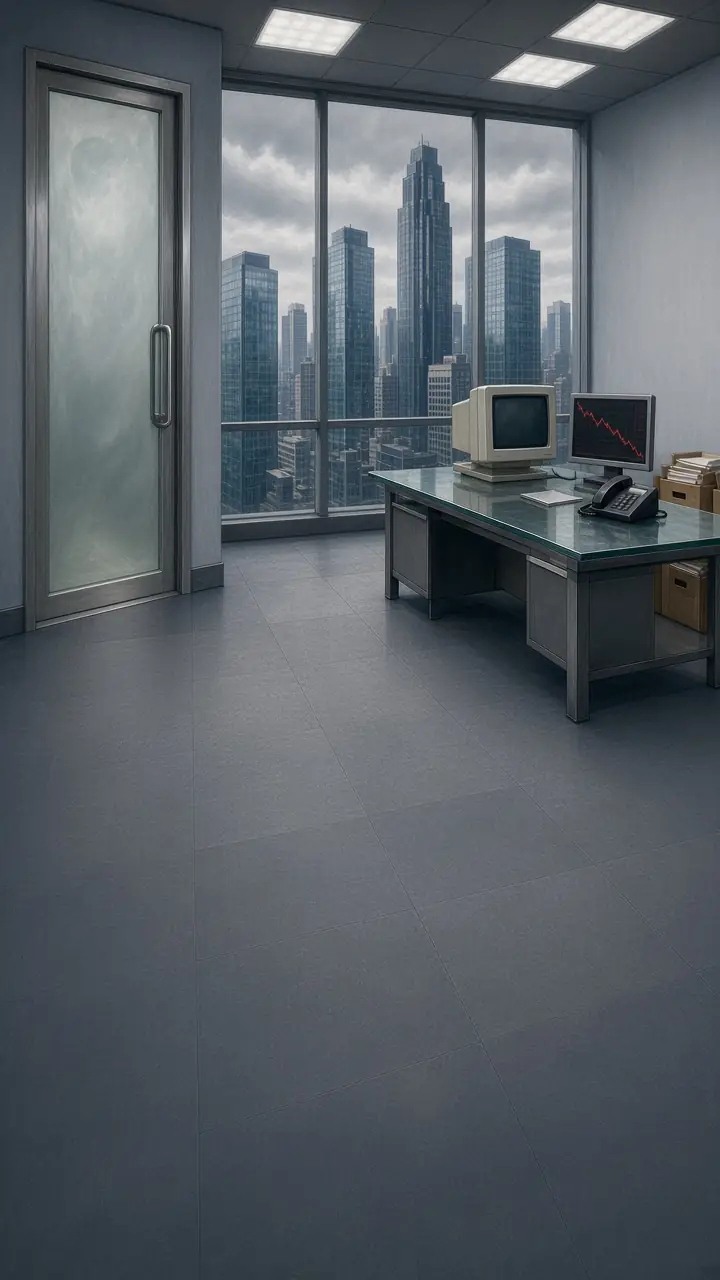
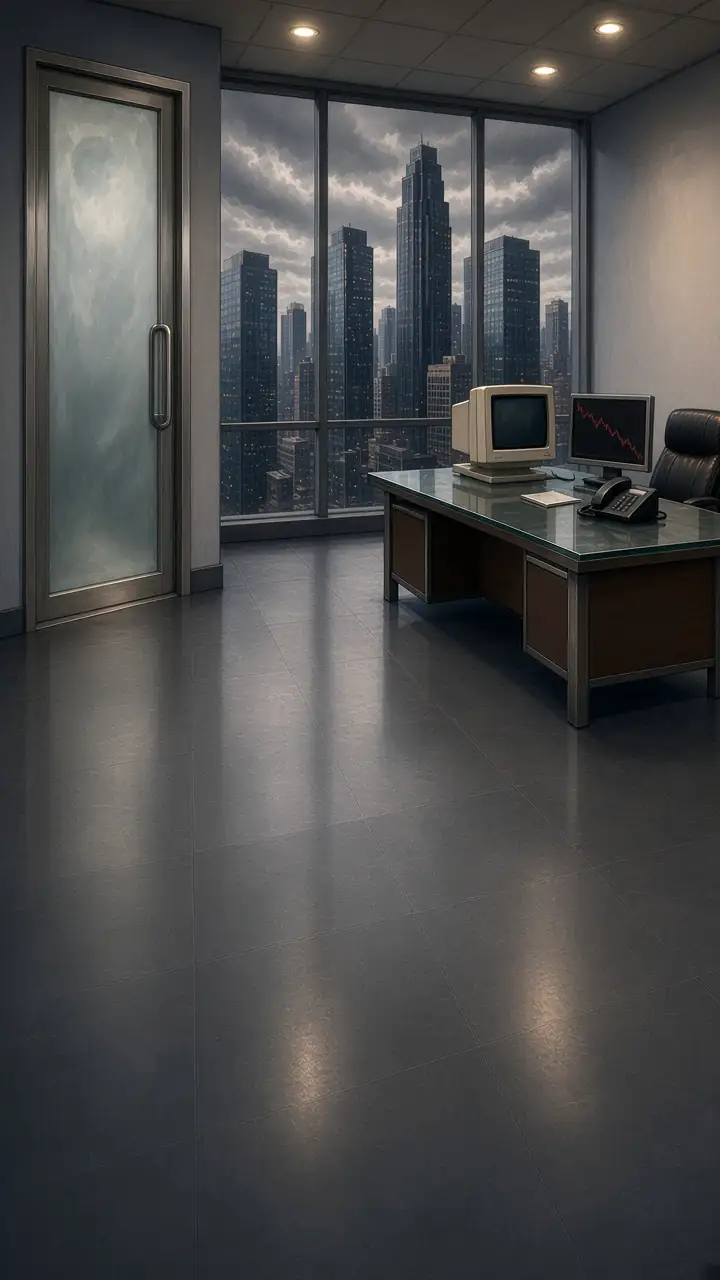
Deploy: office polish — moneyed 1978 + 2008 offices, era meters painted into the room (dial/barometer/ticker tape · LCD/LED/terminal · glass/gold), per-executive firm keepsakes and door plaques, finer placement (source 63571f0)

diff --git a/index.html b/index.html
@@ -5246,8 +5246,6 @@ body.era-1 .sr-phone.ringing, body.era-2 .sr-phone.ringing { background: linear-
 .o4-hatch { position: absolute; z-index: 2; background-size: contain; background-position: center; background-repeat: no-repeat; transform: perspective(500px) rotateX(58deg); transform-origin: 50% 60%; pointer-events: none; filter: drop-shadow(0 2px 0 rgba(0, 0, 0, .35)); }
 .o4-hatch .o4-hglow { position: absolute; inset: 15%; border-radius: 10px; background: radial-gradient(closest-side, rgba(255, 216, 120, .9), transparent); opacity: 0; transition: opacity .3s; }
 .o4-hatch.on .o4-hglow { opacity: 1; }
-.o4-tick { position: absolute; z-index: 5; transform: translate(-50%, -100%); padding: 4px 14px; border-radius: 8px; background: #10241a; border: 4px solid #c8a34a; color: #9ff0a8; font: 800 40px/1.05 ui-monospace, "SF Mono", Menlo, monospace; text-shadow: 0 0 10px rgba(120, 255, 140, .55); white-space: nowrap; pointer-events: none; box-shadow: 4px 4px 0 rgba(0, 0, 0, .45); }
-.o4-tick.low { color: #ff9a7a; text-shadow: 0 0 10px rgba(255, 120, 90, .6); }
 .o4-ex { position: absolute; left: 0; top: 0; z-index: 6; pointer-events: none; transition: opacity .35s; will-change: transform; }
 .o4-ex .o4-shadow { position: absolute; left: 0; top: 0; transform: translate(-50%, -50%); border-radius: 50%; background: rgba(20, 12, 6, .38); }
 .o4-ex .o4-body { position: absolute; left: 0; bottom: 0; transform-origin: 0 100%; }
@@ -5298,6 +5296,103 @@ body.era-1 .sr-phone.ringing, body.era-2 .sr-phone.ringing { background: linear-
 @media (min-width: 700px) and (max-width: 1199px) and (orientation: portrait) {
   .desk .office .of-room.o4 { height: clamp(140px, calc(var(--app-h, 100dvh) * 0.17), 250px) !important; }
 }
+
+/* ===== Office 40s polish: the meters are fixtures painted into the room, one look per era =====
+   size tier from office.js: data-o4sz s (phone strip) / m (tablet strip) / l (side panel). Units are em of the fixture. */
+.o4-prop { position: absolute; width: auto; pointer-events: none; filter: drop-shadow(0 3px 0 rgba(0, 0, 0, .35)); }
+.o4-plaque { position: absolute; display: flex; flex-direction: column; align-items: center; justify-content: center; text-align: center; pointer-events: none; overflow: hidden; line-height: 1.05; }
+.o4-plaque b { font: 800 22px/1.05 var(--font-serif, Georgia, serif); letter-spacing: .04em; text-transform: uppercase; white-space: nowrap; }
+.o4-plaque small { font: 700 13px/1.1 var(--font-serif, Georgia, serif); letter-spacing: .08em; text-transform: uppercase; white-space: nowrap; margin-top: 3px; }
+.o4-stage[data-era="1"] .o4-plaque { color: #e9c66a; text-shadow: 0 1px 0 #6b4a12, 0 0 6px rgba(255, 210, 120, .35); }
+.o4-stage[data-era="2"] .o4-plaque b, .o4-stage[data-era="2"] .o4-plaque small { font-family: var(--font-sans, Helvetica, Arial, sans-serif); }
+.o4-stage[data-era="2"] .o4-plaque { color: #3d4650; text-shadow: 0 1px 0 rgba(255, 255, 255, .5); background: linear-gradient(180deg, rgba(235, 240, 244, .78), rgba(190, 198, 205, .72)); border: 2px solid #8a949c; border-radius: 3px; }
+.o4-stage[data-era="3"] .o4-plaque { color: #3a2a08; background: linear-gradient(180deg, #f3d77e, #b8862b); border: 2px solid #6b4c12; border-radius: 4px; box-shadow: 0 2px 0 rgba(0, 0, 0, .4); }
+.o4-stage[data-era="3"] .o4-plaque b { font-size: 15px; } .o4-stage[data-era="3"] .o4-plaque small { font-size: 9px; margin-top: 1px; }
+.o4-stage[data-lay="P"] .o4-plaque b { font-size: 15px; } .o4-stage[data-lay="P"] .o4-plaque small { font-size: 9px; }
+.o4-stage[data-lay="P"][data-era="3"] .o4-plaque b { font-size: 11px; } .o4-stage[data-lay="P"][data-era="3"] .o4-plaque small { font-size: 7px; }
+.o4-stage.o4-open .o4-plaque { opacity: 0; }
+
+/* shared fixture reset */
+.office .of-room.o4 .of-g.of-g { font-size: 10px; display: block !important; padding: 0 !important; border: 0 !important; border-radius: 0 !important; background: none !important; box-shadow: none !important; animation: none !important; min-width: 0; column-gap: 0; }
+.office .of-room.o4[data-o4sz="m"] .of-g.of-g { font-size: 12px; }
+.office .of-room.o4[data-o4sz="l"] .of-g.of-g { font-size: 13px; }
+.office .of-room.o4 .of-g .m-lab { position: absolute; display: block !important; white-space: nowrap; pointer-events: none; }
+.office .of-room.o4 .of-g .m-lab .tok, .office .of-room.o4 .of-g .m-lab > i { display: none; }
+.office .of-room.o4 .of-g .m-name { display: inline !important; font: 800 .62em/1 var(--font-sans, Helvetica, Arial, sans-serif) !important; letter-spacing: .12em; text-transform: uppercase; }
+.office .of-room.o4 .of-g .m-val { display: block; text-align: center; text-shadow: none !important; }
+.office .of-room.o4 .of-g .m-bar { display: block !important; position: absolute; margin: 0; overflow: hidden; }
+.office .of-room.o4 .of-g .m-sub { display: none !important; }
+.office .of-room.o4 .of-g .m-pop { z-index: 2; }
+.office .of-room.o4[data-o4sz="s"] .of-g .m-name { font-size: .55em !important; letter-spacing: .06em; }
+
+/* ---- 1978: brass, enamel and paper ---- */
+/* unrest: a round brass pressure dial on the wall by the door, needle at the value, red sector past 60 */
+.office .of-room.o4[data-o4era="1"] .of-g.m-unrest { width: 4.4em; height: 4.4em; border-radius: 50% !important; border: .32em solid #b98a2e !important;
+  background: radial-gradient(circle at 50% 50%, #2a1a0c 0 .28em, transparent .3em), repeating-conic-gradient(from -120deg, #3a2a18 0 1.2deg, transparent 1.2deg 24deg) , conic-gradient(from -120deg, transparent 0 144deg, rgba(190, 40, 20, .75) 144deg 240deg, transparent 240deg), radial-gradient(circle at 40% 35%, #fffaf0, #eadfc2 70%, #cdbb8e) !important;
+  -webkit-mask: none; box-shadow: 0 0 0 .1em #5c3f10, .18em .22em 0 rgba(0, 0, 0, .45), inset 0 0 .3em rgba(0, 0, 0, .35) !important; }
+.office .of-room.o4[data-o4era="1"] .of-g.m-unrest .m-bar { left: calc(50% - .07em); bottom: 50%; width: .14em; height: 1.55em; border-radius: .1em; background: #8a1a0e; transform-origin: 50% 100%; transform: rotate(calc(var(--v, 0) * 2.4deg - 120deg)); transition: transform .9s cubic-bezier(.3, 1.6, .5, 1); overflow: visible; }
+.office .of-room.o4[data-o4era="1"] .of-g.m-unrest .m-bar span { display: none; }
+.office .of-room.o4[data-o4era="1"] .of-g.m-unrest .m-val { position: absolute; left: 50%; bottom: .32em; transform: translateX(-50%); padding: .04em .22em; background: #1d140c; color: #fff4d6 !important; border-radius: .12em; font: 800 1.12em/1 ui-monospace, "SF Mono", Menlo, monospace !important; }
+.office .of-room.o4[data-o4era="1"] .of-g.m-unrest .m-lab { left: 50%; top: 100%; transform: translate(-50%, .2em); padding: .08em .35em; background: linear-gradient(#e7c56a, #a97b25); color: #2a1a06 !important; border-radius: .15em; box-shadow: .1em .1em 0 rgba(0, 0, 0, .4); }
+.office .of-room.o4[data-o4era="1"][data-o4sz="s"] .of-g.m-unrest .m-lab { display: none !important; }
+.office .of-room.o4[data-o4era="1"] .of-g.m-unrest.lvl-danger .m-val { color: #ff9b7e !important; }
+/* collapse: a brass barometer plate screwed to the window frame: drum counter + mercury tube */
+.office .of-room.o4[data-o4era="1"] .of-g.m-collapse { width: 6.6em; height: 2.7em; border-radius: .35em !important; border: .12em solid #5c3f10 !important;
+  background: radial-gradient(circle at .35em .35em, #5c3f10 .1em, transparent .12em), radial-gradient(circle at calc(100% - .35em) .35em, #5c3f10 .1em, transparent .12em), linear-gradient(180deg, #f0d585, #c8973a 55%, #9c6e22) !important; box-shadow: .15em .2em 0 rgba(0, 0, 0, .45) !important; }
+.office .of-room.o4[data-o4era="1"] .of-g.m-collapse .m-lab { left: .55em; top: .3em; color: #3a2606 !important; }
+.office .of-room.o4[data-o4era="1"] .of-g.m-collapse .m-val { position: absolute; right: .45em; top: .25em; min-width: 1.9em; padding: .05em .2em; background: linear-gradient(180deg, #000, #2a221a 50%, #000); color: #fff4d6 !important; border-radius: .1em; font: 800 1.15em/1 ui-monospace, "SF Mono", Menlo, monospace !important; }
+.office .of-room.o4[data-o4era="1"] .of-g.m-collapse .m-bar { left: .55em; right: .55em; bottom: .38em; height: .42em; border-radius: .25em; background: linear-gradient(180deg, #fffdf2, #d9d2bd) !important; box-shadow: inset 0 0 0 .06em #5c3f10; }
+.office .of-room.o4[data-o4era="1"] .of-g.m-collapse .m-bar span { background: linear-gradient(180deg, #ff6a50, #a8140a) !important; border-radius: .25em; }
+.office .of-room.o4[data-o4era="1"][data-o4sz="s"] .of-g.m-collapse .m-lab { top: .38em; }
+/* cash: a stock-ticker dome feeding paper tape across the desk */
+.o4-tick { position: absolute; z-index: 7; pointer-events: none; white-space: nowrap; font-size: 10px; }
+.of-room[data-o4sz="m"] .o4-tick { font-size: 12px; } .of-room[data-o4sz="l"] .o4-tick { font-size: 13px; }
+.o4-tick b { display: block; font: 800 1.25em/1 ui-monospace, "SF Mono", Menlo, monospace; }
+.of-room[data-o4era="1"] .o4-tick { padding: .18em .5em .18em 1.9em; background: linear-gradient(180deg, #fffbea, #efe3bf); color: #1d140c; transform: rotate(-2.5deg); border-radius: .1em; box-shadow: .14em .18em 0 rgba(0, 0, 0, .45);
+  -webkit-mask: linear-gradient(90deg, #000 calc(100% - .35em), transparent calc(100% - .35em)), repeating-linear-gradient(180deg, #000 0 .25em, transparent .25em .4em); -webkit-mask-composite: source-over; }
+.of-room[data-o4era="1"] .o4-tick::before { content: ""; position: absolute; left: .12em; top: 50%; width: 1.5em; height: 1.5em; transform: translateY(-50%); border-radius: 50% 50% .25em .25em; background: radial-gradient(circle at 35% 30%, rgba(255, 255, 255, .85) 0 .15em, transparent .3em), radial-gradient(circle at 50% 60%, #6a4a1c, #2b1d0c); box-shadow: 0 0 0 .12em #c8973a; }
+.of-room[data-o4era="1"] .o4-tick.low { color: #a3170b; }
+
+/* ---- 2008: plastic bezels, LCD and LED ---- */
+.office .of-room.o4[data-o4era="2"] .of-g.m-unrest { width: 4.3em; height: 3.4em; border-radius: .3em !important; border: .12em solid #1a1d20 !important; background: linear-gradient(180deg, #4a5056, #2a2e32) !important; box-shadow: inset 0 .08em 0 rgba(255, 255, 255, .2), .15em .2em 0 rgba(0, 0, 0, .45) !important; }
+.office .of-room.o4[data-o4era="2"] .of-g.m-unrest .m-lab { left: 0; right: 0; top: .22em; text-align: center; color: #d8dde2 !important; }
+.office .of-room.o4[data-o4era="2"] .of-g.m-unrest .m-val { position: absolute; left: .35em; right: .35em; top: 1em; padding: .05em 0; background: linear-gradient(180deg, #a9bf90, #8ea877); color: #15200c !important; border-radius: .1em; box-shadow: inset 0 0 0 .06em #1a1d20; font: 700 1.25em/1 "Courier New", ui-monospace, monospace !important; letter-spacing: .04em; }
+.office .of-room.o4[data-o4era="2"] .of-g.m-unrest .m-bar, .office .of-room.o4[data-o4era="2"] .of-g.m-collapse .m-bar { left: .35em; right: .35em; bottom: .3em; height: .32em; background: repeating-linear-gradient(90deg, #15181a 0 .42em, transparent .42em .52em) !important; border-radius: 0; }
+.office .of-room.o4[data-o4era="2"] .of-g .m-bar span { background: repeating-linear-gradient(90deg, #ffb12e 0 .42em, transparent .42em .52em) !important; border-radius: 0; }
+.office .of-room.o4[data-o4era="2"] .of-g.lvl-danger .m-bar span { background: repeating-linear-gradient(90deg, #ff3b22 0 .42em, transparent .42em .52em) !important; }
+.office .of-room.o4[data-o4era="2"] .of-g.m-unrest.lvl-danger .m-val { animation: o4lcd 1s steps(1) infinite; }
+@keyframes o4lcd { 50% { color: rgba(21, 32, 12, .25); } }
+.office .of-room.o4[data-o4era="2"] .of-g.m-collapse { width: 6.4em; height: 2.5em; border-radius: .2em !important; border: .12em solid #000 !important; background: repeating-linear-gradient(0deg, rgba(255, 255, 255, .04) 0 .1em, transparent .1em .2em), #0b0c0d !important; box-shadow: .15em .2em 0 rgba(0, 0, 0, .45), 0 0 0 .1em #5a6168 !important; }
+.office .of-room.o4[data-o4era="2"] .of-g.m-collapse .m-lab { left: .4em; top: .38em; color: #ffb12e !important; text-shadow: 0 0 .3em rgba(255, 170, 40, .6); }
+.office .of-room.o4[data-o4era="2"] .of-g.m-collapse .m-val { position: absolute; right: .4em; top: .18em; color: #ff4a2a !important; font: 700 1.3em/1 "Courier New", ui-monospace, monospace !important; text-shadow: 0 0 .35em rgba(255, 60, 30, .8) !important; }
+.office .of-room.o4[data-o4era="2"] .of-g.m-collapse .m-bar { bottom: .28em; }
+.of-room[data-o4era="2"] .o4-tick { padding: .3em .55em; background: repeating-linear-gradient(0deg, rgba(255, 255, 255, .05) 0 .1em, transparent .1em .22em), #0c0a06; color: #ffb12e; border: .14em solid #3d4247; border-radius: .25em; text-shadow: 0 0 .35em rgba(255, 170, 40, .7); box-shadow: .14em .18em 0 rgba(0, 0, 0, .45); }
+.of-room[data-o4era="2"] .o4-tick b { font-family: "Courier New", ui-monospace, monospace; font-weight: 700; }
+.of-room[data-o4era="2"] .o4-tick.low { color: #ff4a2a; }
+
+/* ---- Today: emerald glass and gold light ---- */
+.office .of-room.o4[data-o4era="3"] .of-g.m-unrest, .office .of-room.o4[data-o4era="3"] .of-g.m-collapse { border-radius: .45em !important; border: .08em solid rgba(240, 205, 120, .85) !important; background: linear-gradient(160deg, rgba(30, 80, 64, .55), rgba(8, 30, 24, .45)) !important; -webkit-backdrop-filter: blur(2px); backdrop-filter: blur(2px); box-shadow: 0 0 .7em rgba(240, 205, 120, .35), inset 0 0 .5em rgba(160, 255, 220, .18) !important; }
+.office .of-room.o4[data-o4era="3"] .of-g.m-unrest { width: 4em; height: 3.3em; }
+.office .of-room.o4[data-o4era="3"] .of-g.m-collapse { width: 6.2em; height: 2.4em; }
+.office .of-room.o4[data-o4era="3"] .of-g .m-lab { color: #f3dc98 !important; }
+.office .of-room.o4[data-o4era="3"] .of-g.m-unrest .m-lab { left: 0; right: 0; top: .3em; text-align: center; }
+.office .of-room.o4[data-o4era="3"] .of-g.m-unrest .m-val { position: absolute; left: 0; right: 0; top: .95em; color: #fff3cf !important; font: 300 1.55em/1 var(--font-sans, Helvetica, Arial, sans-serif) !important; text-shadow: 0 0 .4em rgba(240, 205, 120, .9) !important; }
+.office .of-room.o4[data-o4era="3"] .of-g.m-collapse .m-lab { left: .5em; top: .45em; }
+.office .of-room.o4[data-o4era="3"] .of-g.m-collapse .m-val { position: absolute; right: .5em; top: .2em; color: #fff3cf !important; font: 300 1.5em/1 var(--font-sans, Helvetica, Arial, sans-serif) !important; text-shadow: 0 0 .4em rgba(240, 205, 120, .9) !important; }
+.office .of-room.o4[data-o4era="3"] .of-g .m-bar { left: .5em; right: .5em; bottom: .35em; height: .14em; border-radius: .1em; background: rgba(240, 205, 120, .22) !important; }
+.office .of-room.o4[data-o4era="3"] .of-g .m-bar span { background: linear-gradient(90deg, #9fffe0, #f3d27a) !important; box-shadow: 0 0 .4em #f3d27a; }
+.office .of-room.o4[data-o4era="3"] .of-g.lvl-danger .m-val { color: #ffb0a0 !important; text-shadow: 0 0 .45em rgba(255, 80, 60, .95) !important; }
+.office .of-room.o4[data-o4era="3"] .of-g.lvl-danger .m-bar span { background: linear-gradient(90deg, #ff9a6a, #ff3b2e) !important; box-shadow: 0 0 .4em #ff3b2e; }
+.of-room[data-o4era="3"] .o4-tick { padding: .25em .6em; color: #fff3cf; border-radius: .4em; background: linear-gradient(180deg, rgba(240, 205, 120, .28), rgba(240, 205, 120, .06)); border: .08em solid rgba(240, 205, 120, .8); text-shadow: 0 0 .45em rgba(240, 205, 120, .95); box-shadow: 0 0 .8em rgba(240, 205, 120, .35); }
+.of-room[data-o4era="3"] .o4-tick::after { content: ""; position: absolute; left: 20%; right: 20%; top: 100%; height: .7em; background: linear-gradient(180deg, rgba(240, 205, 120, .35), transparent); clip-path: polygon(0 0, 100% 0, 70% 100%, 30% 100%); }
+.of-room[data-o4era="3"] .o4-tick b { font-family: var(--font-sans, Helvetica, Arial, sans-serif); font-weight: 400; }
+.of-room[data-o4era="3"] .o4-tick.low { color: #ffb0a0; text-shadow: 0 0 .45em rgba(255, 80, 60, .95); }
+@media (prefers-reduced-motion: reduce) { .office .of-room.o4 .of-g .m-bar { transition: none !important; } .office .of-room.o4 .of-g .m-val { animation: none !important; } }
+/* the plate paints its own view; the legacy window art must not show through the O4 glass */
+.of-room.o4 .o4-glass.of-glass { background: none !important; filter: none !important; border-radius: 0; }
+.office .of-room.o4 .of-g.o4-under, .of-room.o4 .o4-tick.o4-under { opacity: .5 !important; }
+.office .of-room.o4 .of-g, .of-room.o4 .o4-tick { transition: opacity .25s; }
+.of-room[data-o4era="1"] .o4-tick { padding-right: .85em; }
 </style>
   <script>
   /* Visible viewport height: prefer visualViewport so a Safari toolbar
@@ -13604,7 +13699,7 @@ body.era-1 .sr-phone.ringing, body.era-2 .sr-phone.ringing { background: linear-
   function ogauge(cls, icon, label, num, isMoney, sub, title) {
     var pct = isMoney ? Math.max(0, Math.min(100, num)) : Math.max(0, Math.min(100, num));
     var lvl = LD.resLevel ? LD.resLevel(cls, num) : "ok";
-    return '<div class="meter of-g m-' + cls + " lvl-" + lvl + '" data-num="' + num + '"' + (isMoney ? ' data-money="1"' : "") + ' data-tip="' + esc(title || "") + '" tabindex="0" role="meter" aria-label="' + esc(label) + " " + (isMoney ? money(num) : num) + (isMoney ? "" : " of 100") + '" aria-valuenow="' + num + '" aria-valuemin="0" aria-valuemax="100">' +
+    return '<div class="meter of-g m-' + cls + " lvl-" + lvl + '" data-num="' + num + '" style="--v:' + pct + '"' + (isMoney ? ' data-money="1"' : "") + ' data-tip="' + esc(title || "") + '" tabindex="0" role="meter" aria-label="' + esc(label) + " " + (isMoney ? money(num) : num) + (isMoney ? "" : " of 100") + '" aria-valuenow="' + num + '" aria-valuemin="0" aria-valuemax="100">' +
       '<span class="m-lab">' + (LD.tok ? LD.tok(cls) : '<i aria-hidden="true">' + icon + "</i>") + '<span class="m-name">' + esc(label) + "</span></span>" +
       '<b class="m-val">' + (isMoney ? money(num) : num) + "</b>" +
       '<div class="m-bar"><span style="width:' + pct + '%"></span></div>' + (sub ? '<small class="m-sub">' + esc(sub) + "</small>" : "") + "</div>";
@@ -14154,22 +14249,28 @@ body.era-1 .sr-phone.ringing, body.era-2 .sr-phone.ringing { background: linear-
   /* Plate geometry, in plate pixels. L = 1280x720 (wide boxes), P = 720x1280 (tall side panels). */
   var ROOMS = {
     "e1-L": { w: 1280, h: 720, hk: [0.72, 0], door: [81, 37, 188, 475], glass: [406, 181, 375, 181],
-      occ: [[695, 360], [1280, 380], [1280, 650], [1080, 640], [700, 540]], deskY: 545, tick: [985, 470],
+      occ: [[690, 372], [1280, 386], [1280, 650], [1120, 668], [950, 612], [700, 578]], deskY: 545, tick: [800, 445],
+      mu: [335, 225], mc: [520, 362], pr: [738, 392, 112], pl: [38, 92, 112, 72],
       S: { door: [330, 545], desk: [930, 538], deskEntry: [640, 525], window: [600, 495], hatch: [470, 600], hatchAp: [320, 612], p1: [380, 600], p2: [640, 612], opp: [178, 512], oppIn: [270, 540] } },
     "e2-L": { w: 1280, h: 720, hk: [0.745, 0], door: [50, 25, 244, 531], glass: [344, 56, 531, 388],
-      occ: [[660, 375], [1190, 420], [1250, 350], [1280, 350], [1280, 570], [1190, 600], [950, 660], [690, 520]], deskY: 560, tick: [870, 455],
+      occ: [[655, 336], [1000, 352], [1215, 400], [1215, 600], [1060, 640], [960, 645], [690, 550]], deskY: 560, tick: [830, 458],
+      mu: [318, 250], mc: [500, 444], pr: [712, 350, 96], pl: [40, 175, 165, 64],
       S: { door: [350, 590], desk: [850, 555], deskEntry: [600, 545], window: [560, 520], hatch: [455, 608], hatchAp: [300, 620], p1: [380, 612], p2: [640, 622], opp: [172, 556], oppIn: [260, 580] } },
     "e3-L": { w: 1280, h: 720, hk: [0.70, 0], door: [106, 50, 169, 431], glass: [369, 31, 493, 381],
-      occ: [[675, 360], [1210, 385], [1210, 560], [1000, 590], [700, 480]], deskY: 520, tick: [945, 432],
+      occ: [[675, 360], [1210, 385], [1210, 560], [1000, 590], [700, 480]], deskY: 520, tick: [850, 435],
+      mu: [322, 230], mc: [500, 396], pr: [728, 376, 92], pl: [30, 118, 110, 40],
       S: { door: [330, 515], desk: [900, 515], deskEntry: [620, 505], window: [600, 470], hatch: [455, 592], hatchAp: [310, 604], p1: [360, 590], p2: [640, 600], opp: [190, 481], oppIn: [270, 505] } },
     "e1-P": { w: 720, h: 1280, hk: [0.62, 10], door: [12, 106, 151, 506], glass: [244, 250, 325, 212],
-      occ: [[410, 480], [720, 500], [720, 800], [640, 790], [412, 650]], deskY: 680, tick: [565, 640],
+      occ: [[412, 503], [720, 515], [720, 820], [650, 790], [480, 705], [420, 670]], deskY: 680, tick: [520, 585],
+      mu: [190, 205], mc: [405, 252, 1], pr: [438, 508, 84], pl: [36, 88, 86, 62],
       S: { door: [235, 650], desk: [575, 675], deskEntry: [345, 700], window: [400, 650], hatch: [330, 950], hatchAp: [160, 960], p1: [210, 830], p2: [470, 900], opp: [88, 612], oppIn: [160, 660] } },
     "e2-P": { w: 720, h: 1280, hk: [0.66, 10], door: [25, 50, 163, 575], glass: [222, 87, 353, 425],
-      occ: [[365, 465], [720, 500], [720, 720], [560, 720], [380, 610]], deskY: 640, tick: [545, 560],
+      occ: [[365, 478], [600, 470], [720, 490], [720, 700], [590, 728], [385, 622]], deskY: 640, tick: [480, 555],
+      mu: [200, 170], mc: [380, 102, 0], pr: [396, 492, 78], pl: [30, 175, 112, 58],
       S: { door: [250, 670], desk: [560, 635], deskEntry: [330, 680], window: [400, 640], hatch: [330, 950], hatchAp: [160, 960], p1: [210, 830], p2: [470, 900], opp: [106, 625], oppIn: [180, 670] } },
     "e3-P": { w: 720, h: 1280, hk: [0.60, 10], door: [19, 144, 106, 531], glass: [187, 87, 388, 513],
-      occ: [[398, 560], [720, 575], [720, 790], [620, 785], [410, 700]], deskY: 720, tick: [560, 660],
+      occ: [[398, 560], [720, 575], [720, 790], [620, 785], [410, 700]], deskY: 720, tick: [505, 615],
+      mu: [150, 205], mc: [330, 150, 0], pr: [440, 578, 72], pl: [14, 122, 74, 30],
       S: { door: [205, 710], desk: [585, 715], deskEntry: [330, 745], window: [390, 700], hatch: [330, 960], hatchAp: [160, 970], p1: [210, 860], p2: [470, 930], opp: [72, 675], oppIn: [140, 720] } }
   };
   var IDS = ["mara", "reid", "julian", "cassius", "imani", "soren"];
@@ -14196,9 +14297,14 @@ body.era-1 .sr-phone.ringing, body.era-2 .sr-phone.ringing { background: linear-
     O.glass = el("div", "o4-glass of-glass", w); el("i", "o4-sky", O.glass);
     O.door = el("div", "o4-door", w); O.hall = el("i", "o4-hall", O.door); O.opp = el("span", "o4-opp", O.door); O.oppImg = el("img", "", O.opp); O.oppImg.alt = ""; O.oppImg.draggable = false;
     O.leaf = el("i", "o4-leaf", O.door); O.gap = el("i", "o4-gap", O.door);
+    /* the executive's name on the door: gold leaf (1978), brushed steel (2008), engraved gold (Today); it swings with the leaf */
+    O.plaque = el("span", "o4-plaque", O.leaf); O.plN = el("b", "", O.plaque); O.plF = el("small", "", O.plaque);
+    /* a firm keepsake on the desk, per executive and era */
+    O.prop = el("img", "o4-prop", w); O.prop.alt = ""; O.prop.draggable = false;
     O.knock = el("span", "o4-knock", s);
     O.hatch = el("div", "o4-hatch", w); O.hglow = el("i", "o4-hglow", O.hatch);
-    O.tick = el("span", "o4-tick", w);
+    /* cash readout on the desk: screen space so the figure stays readable on phones */
+    O.tick = el("span", "o4-tick", s); O.tickV = el("b", "", O.tick);
     O.occ = el("div", "o4-occ", w);
     O.ex = el("div", "o4-ex", w); O.shadow = el("i", "o4-shadow", O.ex); O.body = el("div", "o4-body", O.ex); O.spr = el("i", "o4-spr", O.body);
     O.bub = el("span", "o4-bub", s);
@@ -14222,9 +14328,13 @@ body.era-1 .sr-phone.ringing, body.era-2 .sr-phone.ringing { background: linear-
     box(O.glass, R.glass); box(O.door, R.door);
     O.leaf.style.backgroundImage = "url(" + url + ")"; O.leaf.style.backgroundSize = R.w + "px " + R.h + "px"; O.leaf.style.backgroundPosition = (-R.door[0]) + "px " + (-R.door[1]) + "px";
     var hw = lay === "P" ? 300 : 240, hh = hw * 0.6;
-    box(O.hatch, [R.S.hatch[0] - hw / 2, R.S.hatch[1] - hh / 2, hw, hh]);
+    box(O.hatch, [R.S.hatch[0] - hw / 2, R.S.hatch[1] - hh / 2 - (lay === "P" ? 30 : 0), hw, hh]);
     O.hatch.style.backgroundImage = "url(" + BASE + "hatch-" + exec + ".webp)";
-    O.tick.style.left = R.tick[0] + "px"; O.tick.style.top = R.tick[1] + "px";
+    O.prop.src = BASE + "props/" + exec + "-e" + era + ".webp";
+    O.prop.style.left = R.pr[0] + "px"; O.prop.style.top = (R.pr[1] - R.pr[2]) + "px"; O.prop.style.height = R.pr[2] + "px";
+    box(O.plaque, R.pl);
+    var EX = LD.execById ? LD.execById(exec) : null;
+    O.plN.textContent = EX ? EX.name.replace(/^Dr\. /, "Dr ") : ""; O.plF.textContent = EX ? EX.firm : "";
     O.occ.style.backgroundImage = "url(" + url + ")"; O.occ.style.clipPath = "polygon(" + R.occ.map(function (p) { return p[0] + "px " + p[1] + "px"; }).join(",") + ")";
     O.occ.style.width = R.w + "px"; O.occ.style.height = R.h + "px";
     if (O.A) O.spr.style.backgroundImage = "url(" + BASE + key + ".webp)";
@@ -14241,12 +14351,12 @@ body.era-1 .sr-phone.ringing, body.era-2 .sr-phone.ringing { background: linear-
     if (O.R && O.rk.slice(-1) !== lay) { setEra(O.era, O.exec, lay); }
     var R = O.R, s = H / R.h;
     /* very wide strips (tablet portrait): zoom in a little, trimming ceiling and floor edge but never the desk-height head or the hatch */
-    if (lay === "L" && R.w * s < W) s = Math.min(W / R.w, H / (R.h * 0.84));
+    if (lay === "L" && R.w * s < W) s = Math.min(W / R.w, H / (R.h * 0.74));
     /* wide side panels (desktop): fill the width and trim the empty floor at the bottom rather than show edge strips */
     if (lay === "P" && R.w * s < W) s = Math.min(W / R.w, H / (R.h * 0.8));
     var pw = R.w * s, ph = R.h * s, ox;
     if (pw > W) ox = lay === "P" ? -(pw - W) * 0.3 : -(pw - W) / 2; else ox = (W - pw) / 2;
-    var oy = H - ph; oy = oy > 0 ? oy / 2 : oy * (lay === "P" ? 0.3 : 0.45);
+    var oy = H - ph; oy = oy > 0 ? oy / 2 : oy * (lay === "P" ? 0.3 : 0.6);
     O.s = s; O.ox = ox; O.oy = oy;
     O.world.style.transform = "translate(" + ox.toFixed(1) + "px," + oy.toFixed(1) + "px) scale(" + s.toFixed(4) + ")";
     var fw = Math.max(0, ox);
@@ -14262,30 +14372,43 @@ body.era-1 .sr-phone.ringing, body.era-2 .sr-phone.ringing { background: linear-
     draw();
   }
   function px(v, axis) { return axis === "x" ? O.ox + v * O.s : O.oy + v * O.s; }
+  /* The meters are fixtures of the room: unrest hangs on the wall by the door, collapse is mounted on the window frame,
+     cash sits on the desk. Anchors are plate points; the fixtures stay screen-sized so the numbers read on phones. */
   function placeMeters(room) {
     var R = O.R, W = room.clientWidth, H = room.clientHeight;
-    var u = room.querySelector(".m-unrest"), c = room.querySelector(".m-collapse");
-    function put(m, x, y, alignR) {
-      if (!m) return; var mw = m.offsetWidth || 60, mh = m.offsetHeight || 24;
-      var l = alignR ? x - mw : x; l = Math.max(3, Math.min(W - mw - 3, l)); var t = Math.max(3, Math.min(H - mh - 3, y));
-      m.style.setProperty("left", Math.round(l) + "px", "important"); m.style.setProperty("top", Math.round(t) + "px", "important");
-      m.style.setProperty("right", "auto", "important"); m.style.setProperty("bottom", "auto", "important"); m.style.setProperty("transform", "none", "important");
+    var u = room.querySelector(".m-unrest"), c = room.querySelector(".m-collapse"), t = O.tick;
+    room.dataset.o4sz = H < 200 ? "s" : W < 420 && H < 420 ? "m" : H < 420 ? "m" : "l";
+    if (O.era) room.dataset.o4era = O.era;
+    var placed = [];
+    function put(m, x, y, ax, ay, setImp) {
+      if (!m) { placed.push(null); return; } var mw = m.offsetWidth || 60, mh = m.offsetHeight || 24;
+      var l = Math.max(3, Math.min(W - mw - 3, x - mw * ax)), tp = Math.max(3, Math.min(H - mh - 3, y - mh * ay));
+      /* never stack two fixtures: slide sideways off anything already placed */
+      for (var i = 0; i < placed.length; i++) { var q = placed[i]; if (!q) continue;
+        if (l < q[0] + q[2] + 4 && q[0] < l + mw + 4 && tp < q[1] + q[3] + 2 && q[1] < tp + mh + 2) {
+          var right = q[0] + q[2] + 5; l = right + mw <= W - 3 ? right : Math.max(3, q[0] - mw - 5);
+          if (l < q[0] + q[2] + 4 && q[0] < l + mw + 4) tp = Math.min(H - mh - 3, q[1] + q[3] + 4);
+        } }
+      placed.push([l, tp, mw, mh]);
+      var imp = setImp ? "important" : "";
+      m.style.setProperty("left", Math.round(l) + "px", imp); m.style.setProperty("top", Math.round(tp) + "px", imp);
+      if (setImp) { m.style.setProperty("right", "auto", "important"); m.style.setProperty("bottom", "auto", "important"); m.style.setProperty("transform", "none", "important"); }
     }
-    /* unrest hangs by the door, collapse sits on the window sill */
-    put(u, px(R.door[0] + R.door[2] * 0.08, "x"), px(R.door[1] + R.door[3] * 0.06, "y"), false);
-    var narrow = H < 200;
-    if (narrow) {
-      /* short strip: both pills ride the top edge, unrest over the door, collapse at the window's right */
-      put(u, px(R.door[0], "x") + 2, 4, false);
-      put(c, px(R.glass[0] + R.glass[2], "x"), 4, true);
-    } else if (O.rk.slice(-1) === "P") put(c, px(R.glass[0] + R.glass[2] * 0.04, "x"), px(R.glass[1], "y") + 6, false);
-    else put(c, px(R.glass[0] + R.glass[2] * 0.04, "x"), px(R.glass[1] + R.glass[3], "y") - (c ? c.offsetHeight || 24 : 24) - 4, false);
-    if (u && c) {
-      var a = u.getBoundingClientRect(), b = c.getBoundingClientRect();
-      if (a.right + 4 > b.left && b.right + 4 > a.left && a.bottom + 2 > b.top && b.bottom + 2 > a.top) {
-        var l = parseFloat(u.style.left) + a.width + 6; if (l + b.width > W - 3) { c.style.setProperty("top", (parseFloat(u.style.top) + a.height + 4) + "px", "important"); } else c.style.setProperty("left", l + "px", "important");
-      }
-    }
+    put(u, px(R.mu[0], "x"), px(R.mu[1], "y"), 0.5, 0.5, true);
+    put(c, px(R.mc[0], "x"), px(R.mc[1], "y"), 0.5, R.mc[2] != null ? R.mc[2] : 0.75, true);
+    put(t, px(R.tick[0], "x"), px(R.tick[1], "y"), 0.5, 0.5, false);
+    O.fx = [u, c, t].map(function (m, i) { return m && placed[i] ? { m: m, r: placed[i] } : null; }).filter(Boolean);
+    under();
+  }
+  /* a fixture fades while the executive (or a visitor in the doorway) is behind it, so nobody is hidden by a meter */
+  function under() {
+    if (!O.fx || !O.R || !O.s) return;
+    var st = O.st, h = heightAt(st.y), rs = [];
+    /* the visible body: a little narrower than the sprite box; behind the desk only the upper half shows */
+    var behind = st.y < O.R.deskY && st.x > O.R.S.deskEntry[0] - 10, bot = behind ? st.y - h * 0.5 : st.y;
+    if (!st.hidden) rs.push([px(st.x - h * 0.15, "x"), px(st.y - h * 0.94, "y"), h * 0.3 * O.s, (bot - (st.y - h * 0.94)) * O.s]);
+    if (O.stage.classList.contains("o4-in") && O.opp.style.width) { var b = O.opp.getBoundingClientRect(), a = O.stage.getBoundingClientRect(); rs.push([b.left - a.left, b.top - a.top, b.width, b.height * 0.6]); }
+    O.fx.forEach(function (f) { var q = f.r, hit = rs.some(function (r) { return r[0] < q[0] + q[2] && q[0] < r[0] + r[2] && r[1] < q[1] + q[3] && q[1] < r[1] + r[3]; }); f.m.classList.toggle("o4-under", hit); });
   }
   function frame(p) { var F = O.A && O.A.f; if (!F) return null; return F[p] || F.idle; }
   function draw() {
@@ -14300,10 +14423,11 @@ body.era-1 .sr-phone.ringing, body.era-2 .sr-phone.ringing { background: linear-
     O.ex.style.transform = "translate(" + st.x.toFixed(1) + "px," + st.y.toFixed(1) + "px)";
     O.shadow.style.width = (h * 0.32).toFixed(0) + "px"; O.shadow.style.height = (h * 0.05).toFixed(0) + "px";
     var behind = st.y < O.R.deskY && st.x > O.R.S.deskEntry[0] - 10;
-    O.ex.style.zIndex = behind ? 3 : 6; O.occ.style.zIndex = 4; O.tick.style.zIndex = 5;
+    O.ex.style.zIndex = behind ? 3 : 6; O.occ.style.zIndex = 4; O.prop.style.zIndex = 5;
     O.ex.style.opacity = st.hidden ? "0" : "";
     O.ex.dataset.pose = st.pose;
     if (O.bub.classList.contains("on")) placeBub();
+    under();
   }
   function setPose(p) { O.st.pose = p; draw(); }
   function poseFor() { return O.mood === "panic" ? "panic" : O.mood === "nervous" ? "nervous" : "idle"; }
@@ -14376,7 +14500,8 @@ body.era-1 .sr-phone.ringing, body.era-2 .sr-phone.ringing { background: linear-
     O.ex.setAttribute("aria-hidden", "true");
     room.setAttribute("aria-label", (LD.execById ? LD.execById(state.executiveId).name : "") + ", " + ({ confident: "confident", nervous: "nervous", panic: "panicking" })[O.mood]);
     /* meters on props */
-    O.tick.textContent = LD.formatMoney ? LD.formatMoney(state.cash) : "$" + state.cash + "M";
+    O.tickV.textContent = LD.formatMoney ? LD.formatMoney(state.cash) : "$" + state.cash + "M";
+    room.dataset.o4era = era;
     O.tick.classList.toggle("low", state.cash < 5);
     var door = LD.doorLevel ? LD.doorLevel(state) : 0, city = LD.cityStage ? LD.cityStage(state) : 0;
     O.knock.textContent = door >= 3 ? "BANG BANG!" : door >= 2 ? "KNOCK KNOCK" : "tap tap";
@@ -14429,10 +14554,12 @@ body.era-1 .sr-phone.ringing, body.era-2 .sr-phone.ringing { background: linear-
     })();
     return { skip: function () { O.skip = true; O.token++; finish(true); } };
   };
+  /* test hook (real-input placement shots): stand at a named spot in a pose */
+  API.debugSpot = function (spot, pose) { if (!O.R || !O.R.S[spot]) return false; O.frozen = true; O.token++; O.q.length = 0; O.st.hidden = false; O.st.x = O.R.S[spot][0]; O.st.y = O.R.S[spot][1]; O.st.pose = pose || "idle"; draw(); if (spot === "hatch") O.hatch.classList.add("on"); else O.hatch.classList.remove("on"); return true; };
   API.afterFight = function () { if (!O.stage) return; if (!O.st.hidden) enqueue("back", home); };
   /* idle life: small fidgets by mood; pacing in a panic */
   setInterval(function () {
-    if (!API.active() || O.busy || O.q.length || document.hidden || rm()) return;
+    if (!API.active() || O.busy || O.q.length || document.hidden || rm() || O.frozen) return;
     var desk = document.querySelector(".desk"); if (!desk || desk.closest(".screen[hidden]")) return;
     var idle = Date.now() - O.lastAct;
     if (O.mood === "panic") { if (idle > 2500) enqueue("pace", async function () { await go(Math.random() < 0.5 ? "p1" : "p2", true); hold("panic"); say(Math.random() < 0.3 ? pick(SAY.panic) : "", 1100); await wait(1200); }); return; }
@@ -15745,9 +15872,12 @@ body.era-1 .sr-phone.ringing, body.era-2 .sr-phone.ringing { background: linear-
       var money = m.getAttribute("data-money");
       bar.style.transition = "none";
       bar.style.width = Math.max(0, Math.min(100, start)) + "%";
+      /* office fixtures (dials, LED strips) read --v */
+      if (m.style.getPropertyValue("--v")) m.style.setProperty("--v", Math.max(0, Math.min(100, start)));
       void bar.offsetWidth;
       bar.style.transition = "";
       bar.style.width = Math.max(0, Math.min(100, to)) + "%";
+      if (m.style.getPropertyValue("--v")) requestAnimationFrame(function () { m.style.setProperty("--v", Math.max(0, Math.min(100, to))); });
       m.classList.add(to > start ? "rise" : "fall");
       var d = to - start, pop = document.createElement("span");
       var goodUp = key === "cash";
